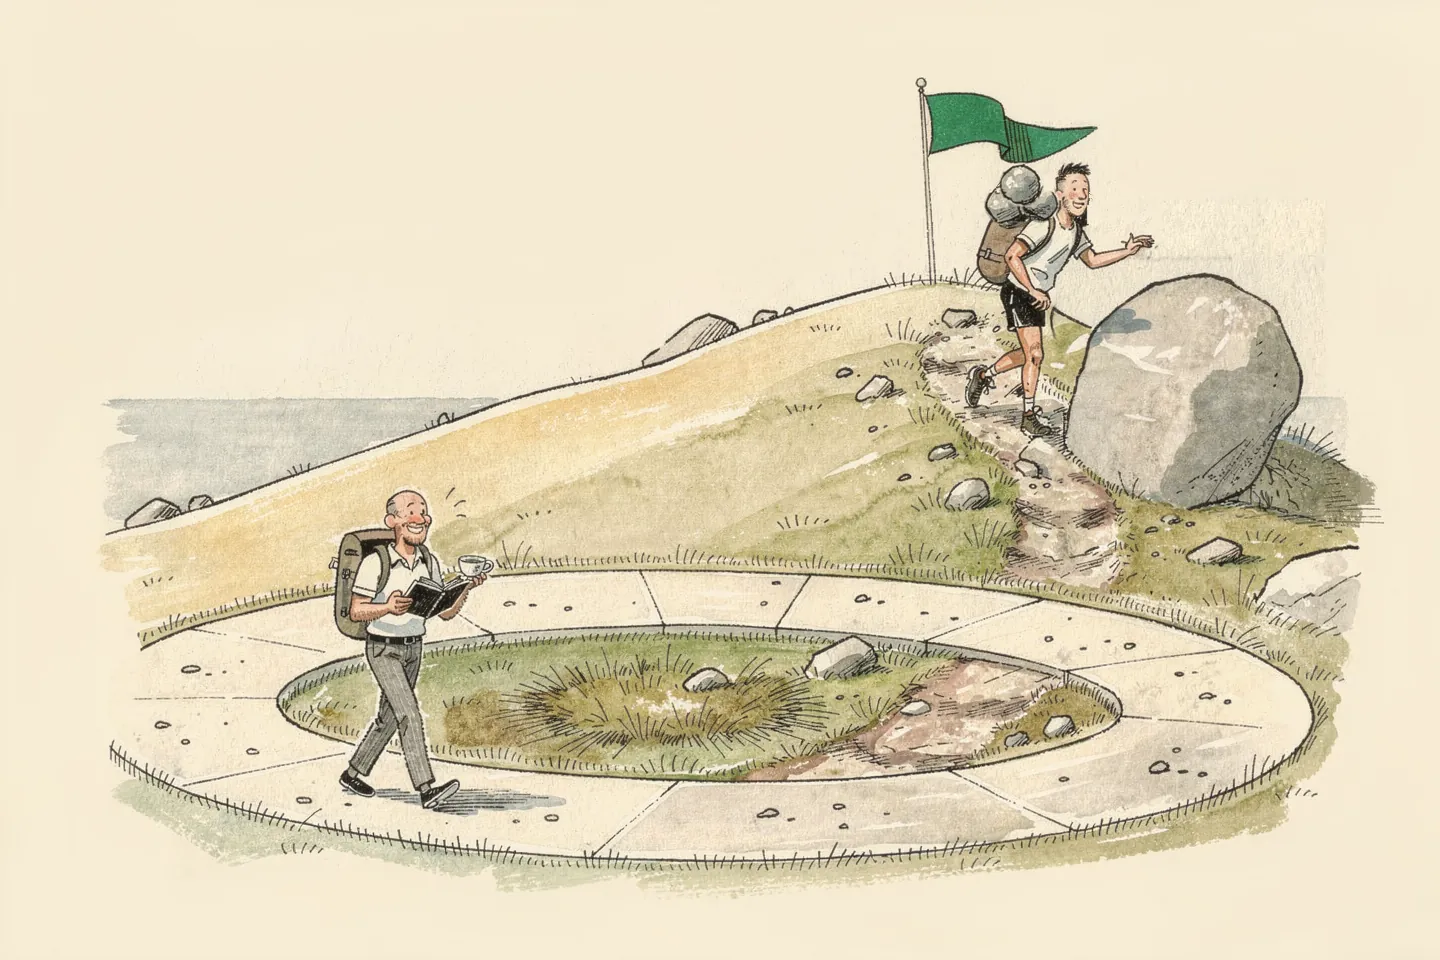
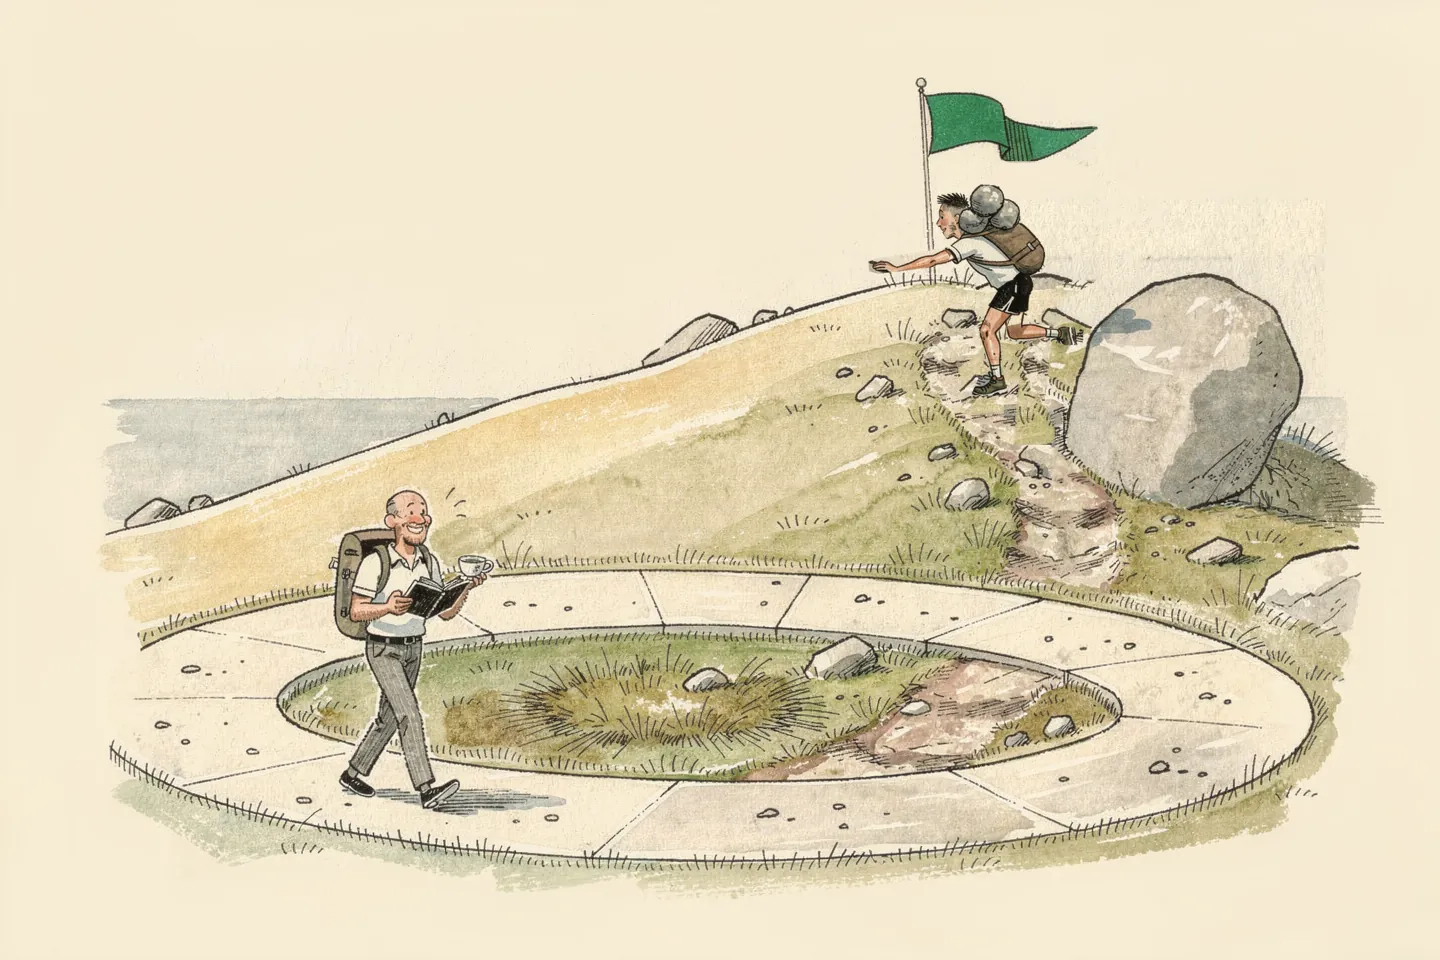
Blog: the climber in the hill picture now climbs towards the flag
He faced right and stepped down, away from the summit. He now leans into
the last steps of the trail, facing the flag and reaching for it, with the
stones still in his rucksack. Redrawn with FLUX on a crop, mirrored and set
into the picture by hand; the ground behind the old figure is rebuilt from
the trail beside it. Alt text and link preview follow.

Claude-Session: https://claude.ai/code/session_01HKzTyG5zELXfQ7JEL7W87S

Changed region(s): [[0.5938, 0.1562, 0.8125, 0.4688]]

diff --git a/blog/you-are-not-a-goldfish/index.html b/blog/you-are-not-a-goldfish/index.html
@@ -19,7 +19,7 @@
 <meta property="og:image" content="https://www.kormoranlabs.com/blog/you-are-not-a-goldfish/og.jpg">
 <meta property="og:image:width" content="1200">
 <meta property="og:image:height" content="630">
-<meta property="og:image:alt" content="A hand-drawn hill: one man strolls round a paved loop with a book and a teacup while a fit hiker carrying stones climbs a rocky trail towards a green flag.">
+<meta property="og:image:alt" content="A hand-drawn hill: one man strolls round a paved loop with a book and a teacup while a fit hiker carrying stones climbs a rocky trail, reaching for a green flag at the top.">
 <meta property="article:published_time" content="2026-11-25">
 <meta name="twitter:card" content="summary_large_image">
 <link rel="preload" href="/assets/fonts/cormorant-garamond-italic.woff2" as="font" type="font/woff2" crossorigin>
@@ -97,7 +97,7 @@
     <h2>Why all of this feels wrong</h2>
     <p>Each of these makes practice feel worse while it is happening, and we judge practice by how it feels. In a classic study, some students reread a short text about fourteen times; others read it a few times and then tried, three times over, to write down what they remembered. Five minutes later, the rereaders were ahead, 83% to 71%. A week later it was 61% to 40% the other way, and the rereaders had been the more confident.<sup><a href="#s7" id="r7">7</a></sup> In a flashcard study, nine in ten people did better with their cards spaced out, and after the first session most of them believed the opposite.<sup><a href="#s8" id="r8">8</a></sup></p>
     <figure class="illustration">
-      <img src="two-paths.webp" width="1440" height="960" loading="lazy" decoding="async" alt="A hand-drawn hill by the sea. At the bottom, a smiling man with a book and a teacup strolls round a closed paved loop. A rough trail leaves the loop and climbs the hill, where a fit hiker with a rucksack full of stones nears a green flag.">
+      <img src="two-paths.webp" width="1440" height="960" loading="lazy" decoding="async" alt="A hand-drawn hill by the sea. At the bottom, a smiling man with a book and a teacup strolls round a closed paved loop. A rough trail leaves the loop and climbs the hill, where a fit hiker with a rucksack full of stones leans into the last steps, reaching for a green flag at the top.">
       <figcaption>The smooth loop feels like progress. The rough path is the one that climbs.</figcaption>
     </figure>
     <p>Conditions &ldquo;that make performance improve rapidly often fail to support long-term retention and transfer,&rdquo; the Bjorks write.<sup><a href="#s2">2</a></sup> Learning that feels smooth often isn&rsquo;t. Willpower loses to a feeling that strong. A format does not have to argue with it: the decision is made once, in advance.</p>
